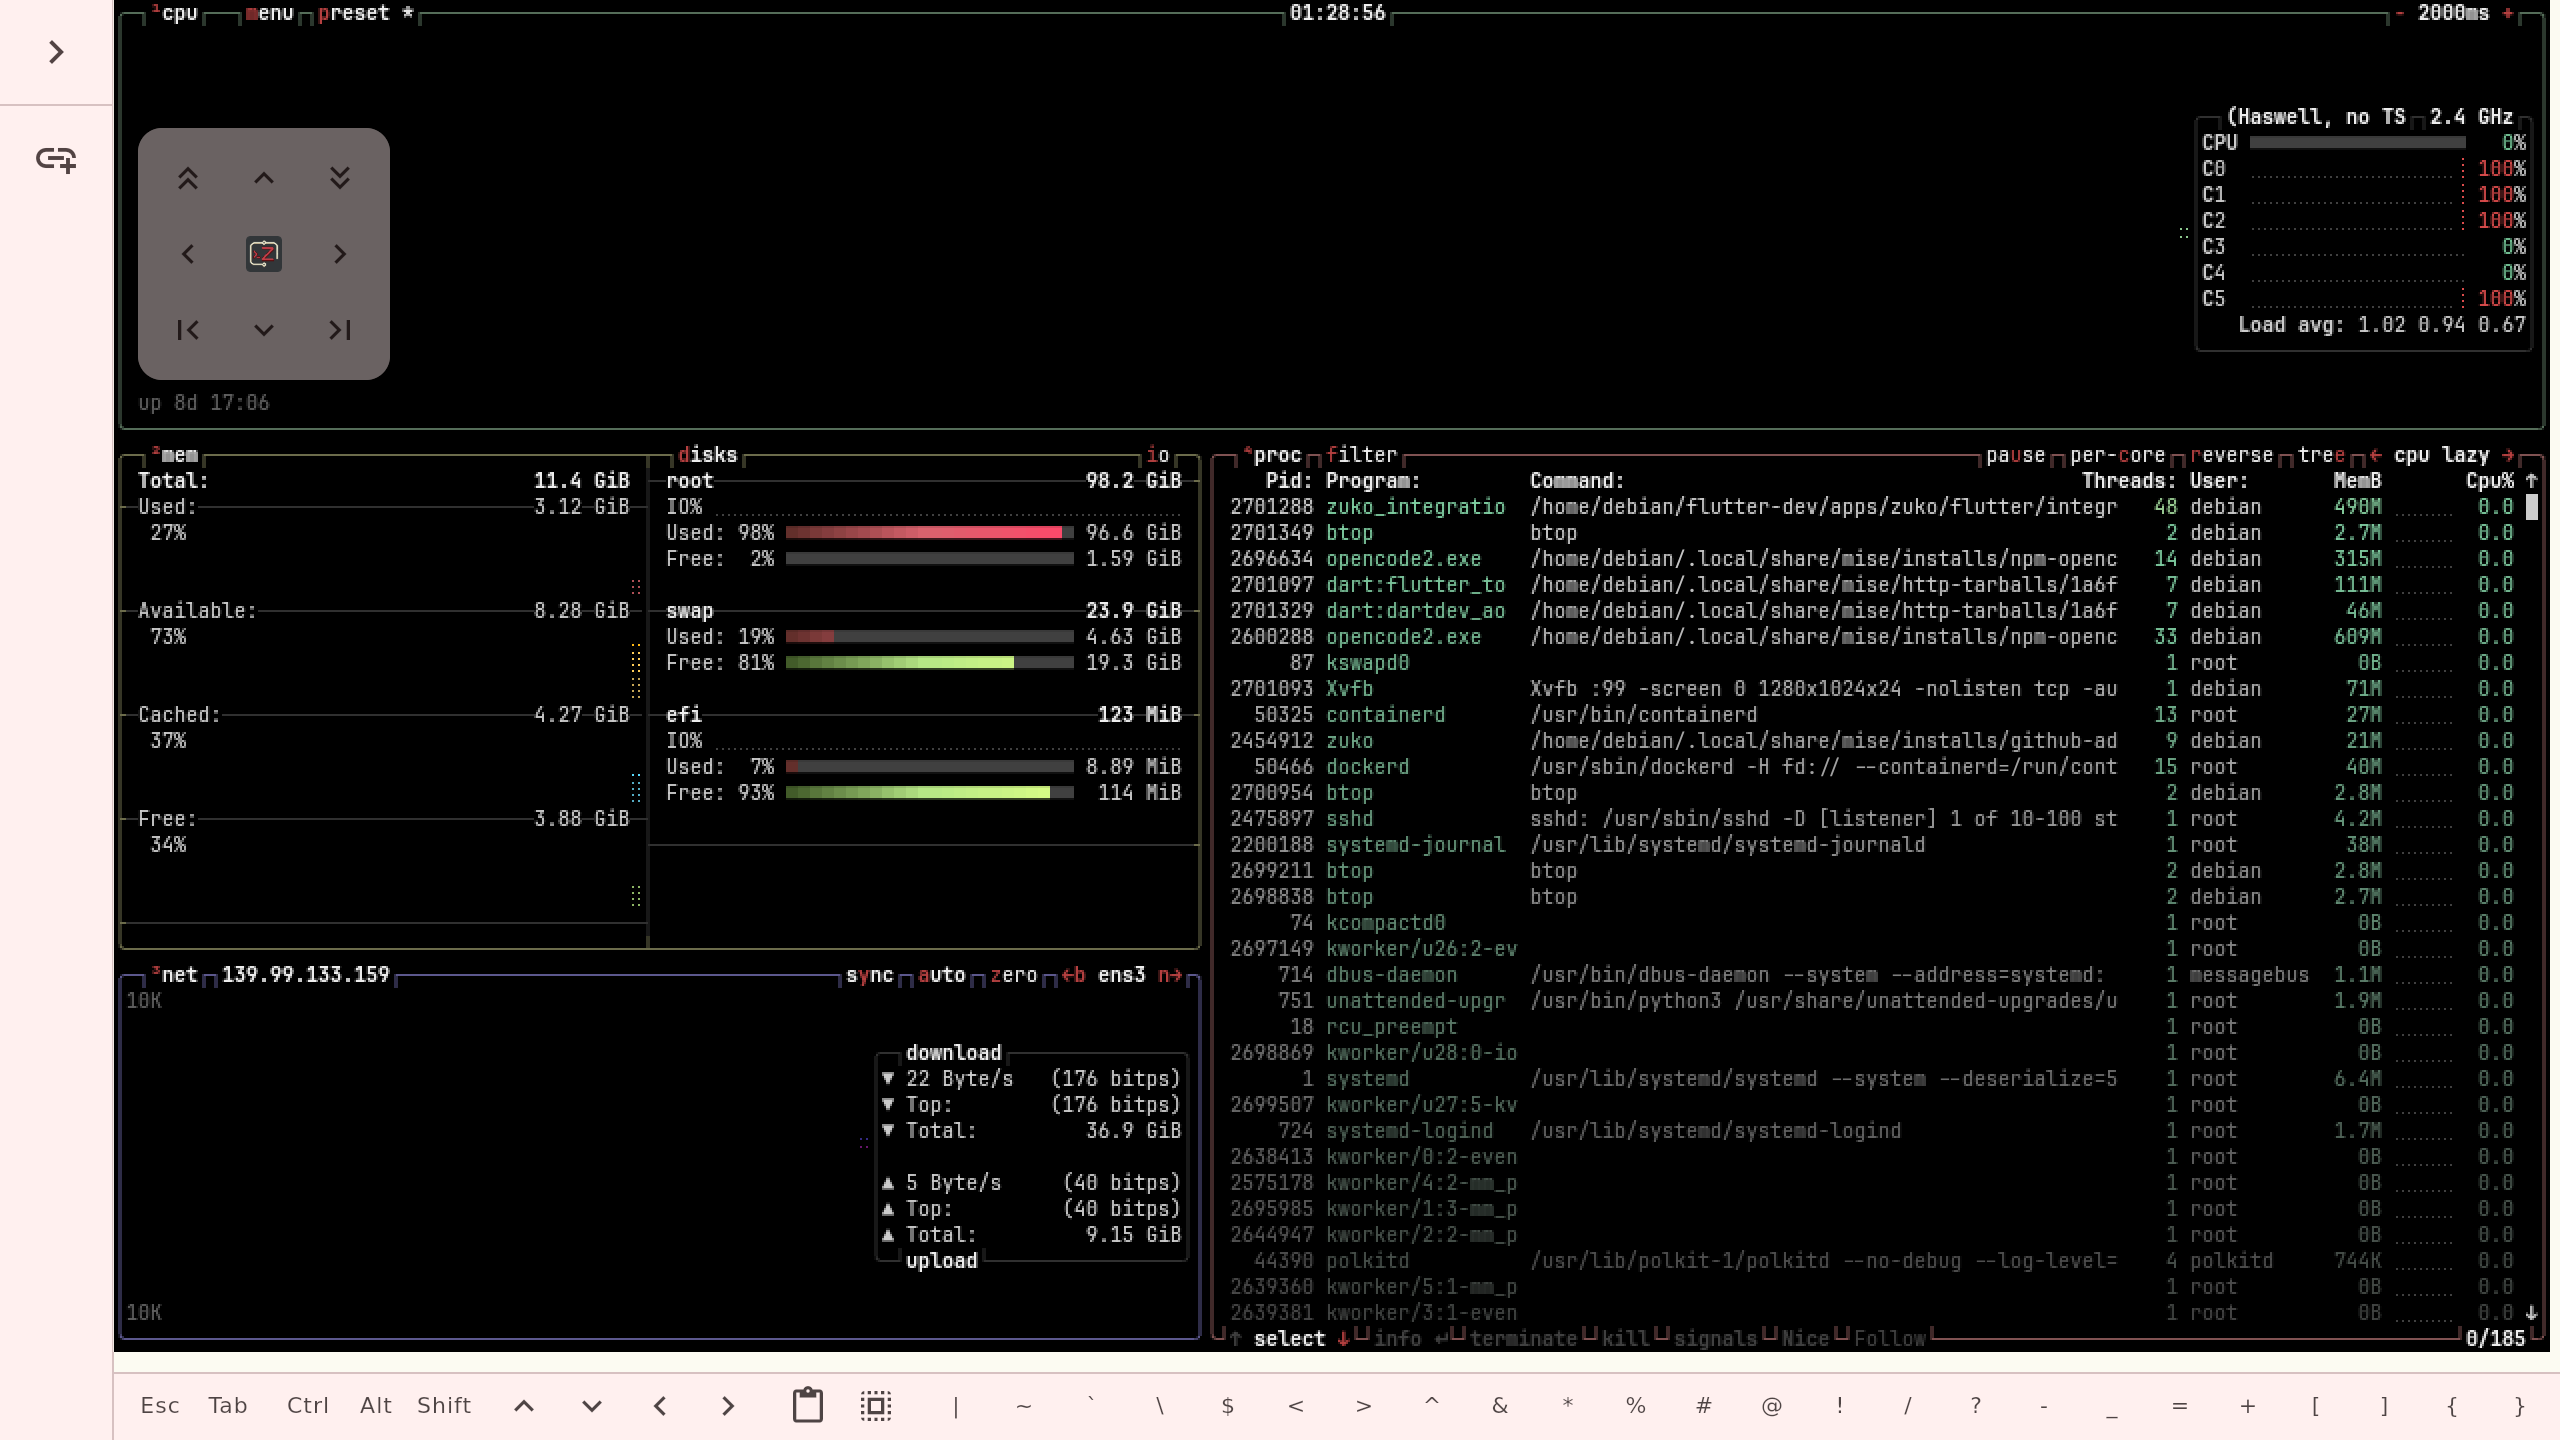
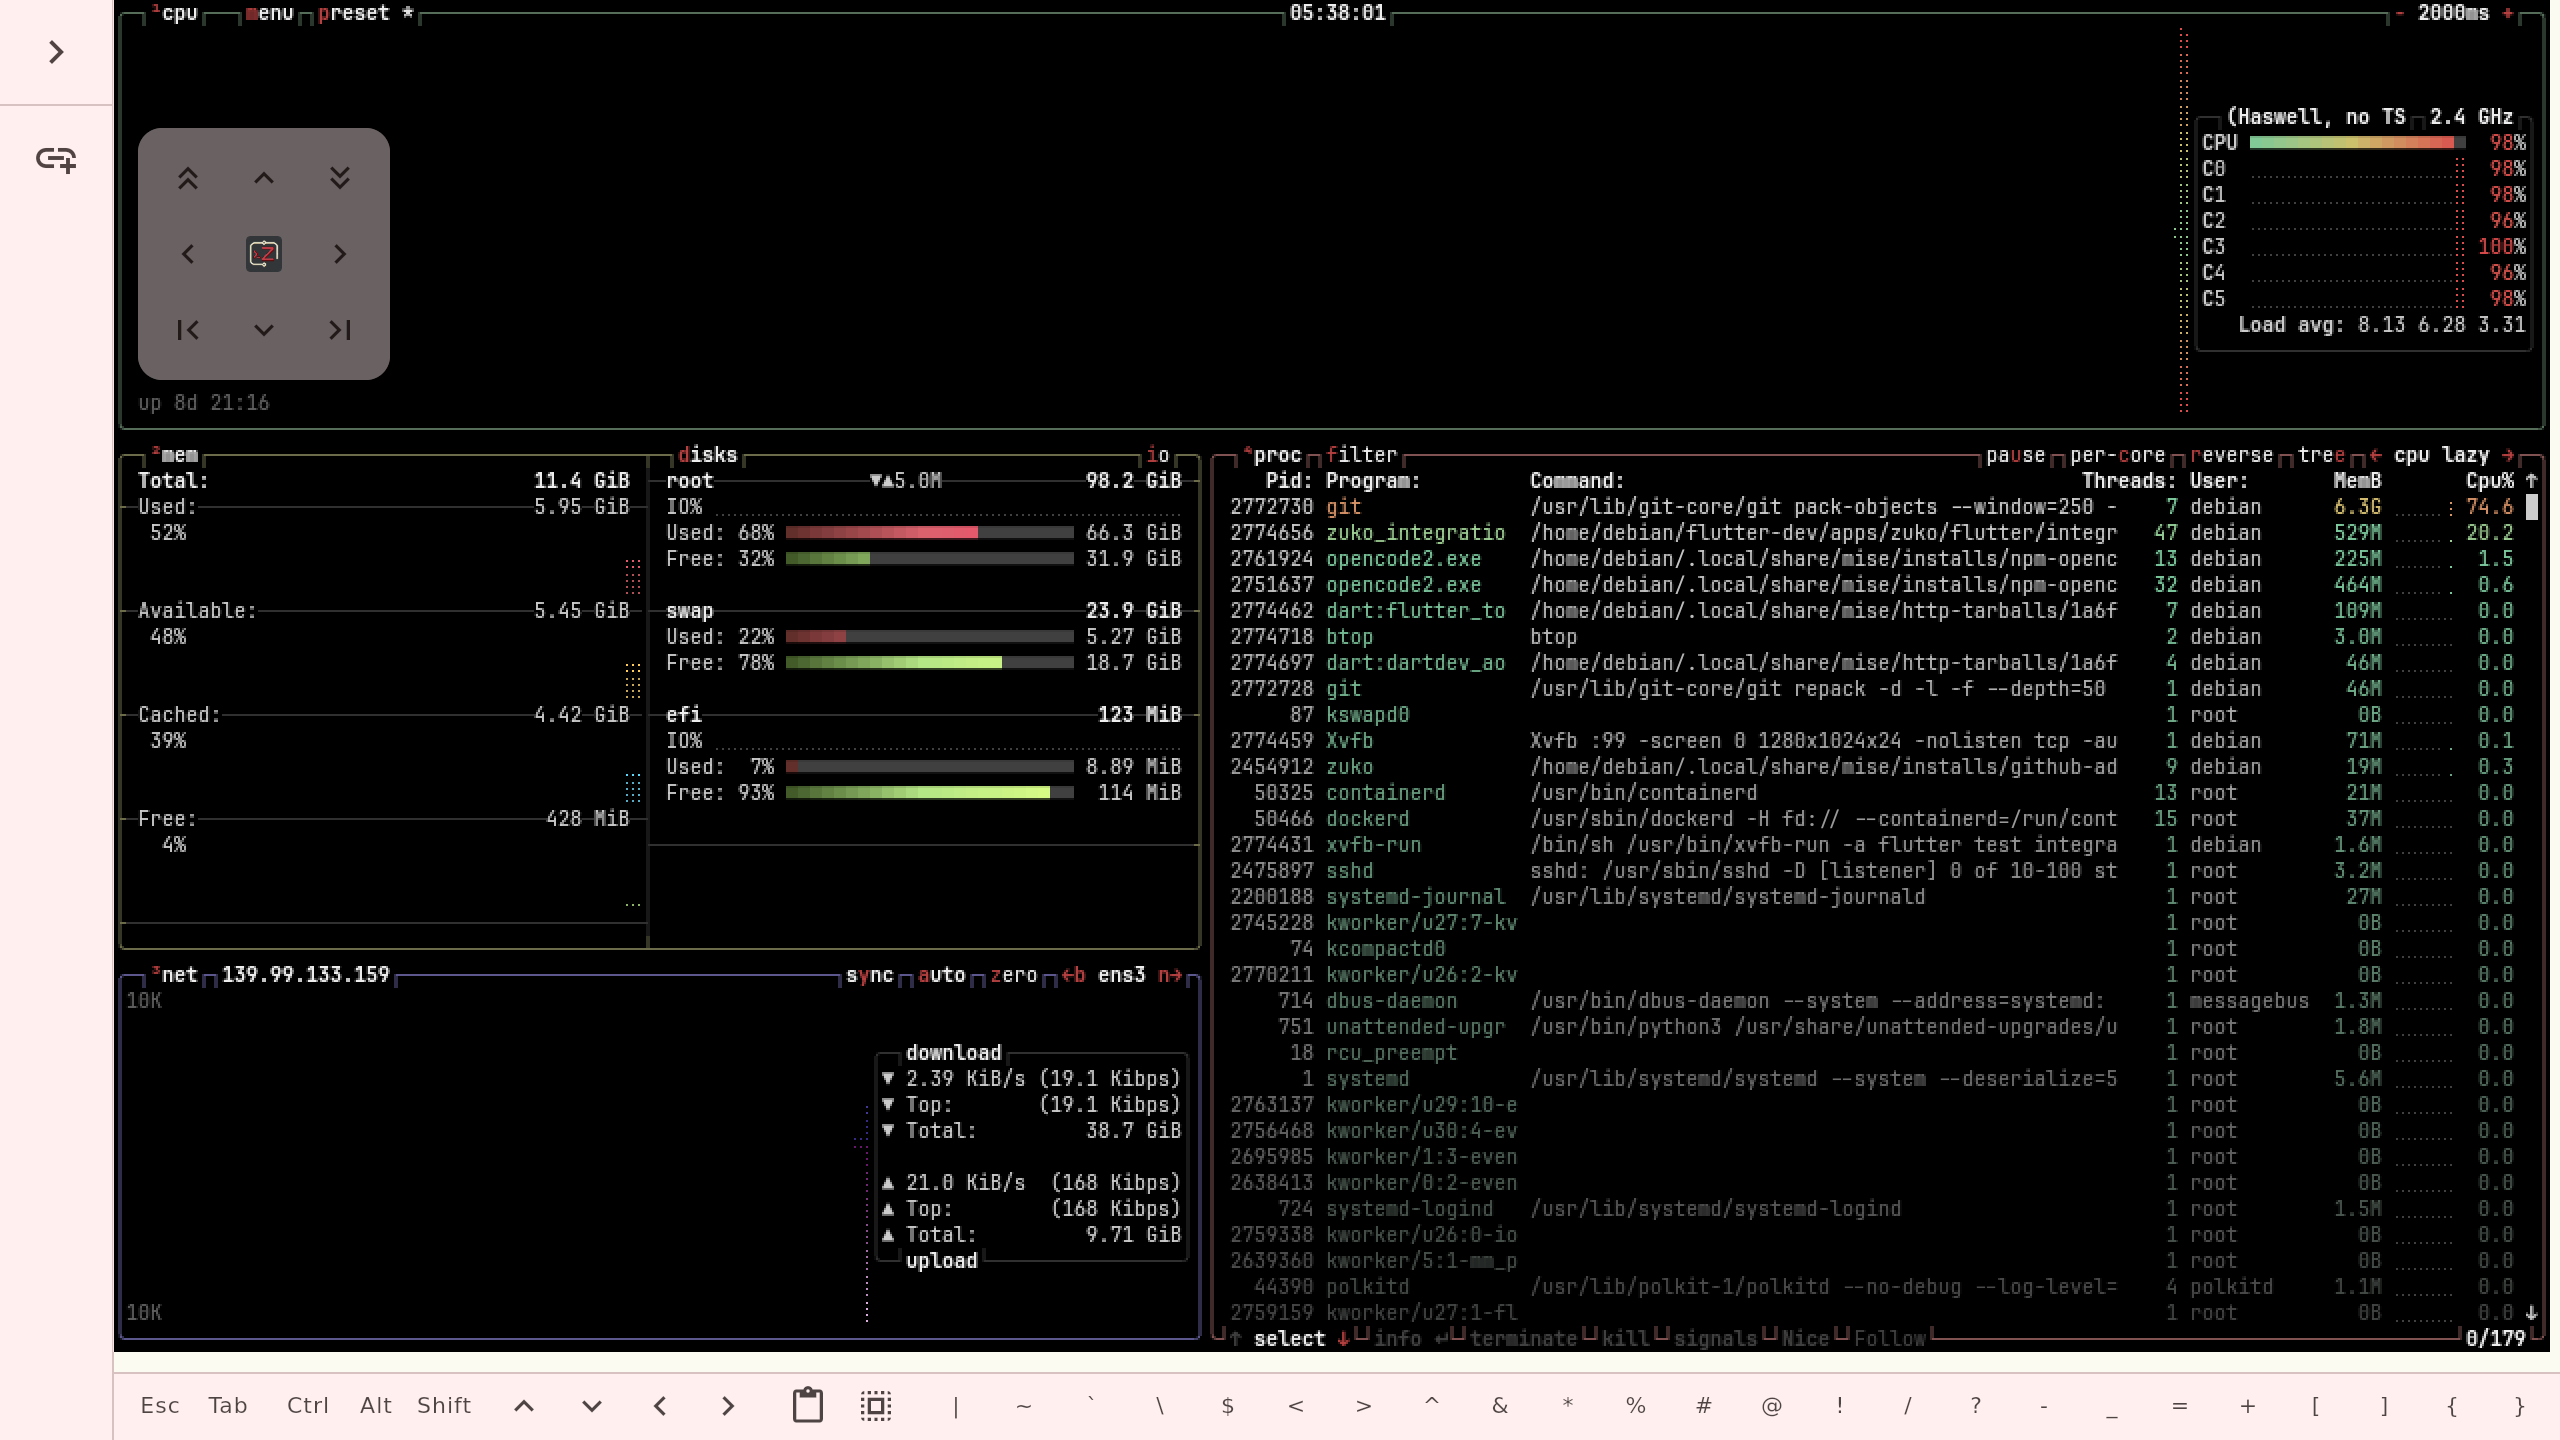
docs(flutter): render the narrow touch screenshot at 6pt so btop fits
The narrow 390x844 capture used the default 10pt terminal font, leaving
too few columns for btop's layout. The capture test now honors
ZUKO_FONT_SIZE and the narrow recipe run sets 6pt, matching a phone
setup; the regenerated image shows btop's full layout under the pad.

diff --git a/flutter/integration/integration_test/btop_pad_screenshot_test.dart b/flutter/integration/integration_test/btop_pad_screenshot_test.dart
@@ -16,15 +16,19 @@ import 'local_host_transport.dart';
 
 /// Real-app screenshots of the touch shell with live TUI content: runs with
 /// ZUKO_FORCE_TOUCH_PAD and a btop PTY so the pad floats over a real
-/// mouse-capable terminal program. ZUKO_SHOT_NAME renames the capture so
-/// the same test can record several window sizes (see the screenshots
-/// recipe).
+/// mouse-capable terminal program. ZUKO_SHOT_NAME renames the capture and
+/// ZUKO_FONT_SIZE sets the terminal font (both so the same test can record
+/// several window sizes — see the screenshots recipe).
 final _shotKey = GlobalKey();
 
 const _shotName = String.fromEnvironment(
   'ZUKO_SHOT_NAME',
   defaultValue: 'touch-btop',
 );
+
+/// Terminal font size in logical points; narrow windows need a small font
+/// for TUIs like btop to fit their full layout.
+const _fontSize = int.fromEnvironment('ZUKO_FONT_SIZE', defaultValue: 10);
 
 Future<void> _capture(WidgetTester tester, String name) async {
   await tester.pump();
@@ -102,6 +106,8 @@ Future<AppController> _controller(LocalHostTransport transport) async {
     clientKey: Uint8List.fromList(List<int>.generate(32, (index) => index)),
     clientName: 'zuko-test-client',
     hosts: const [],
+    terminalFontSize: _fontSize.toDouble(),
+    terminalFontSizeCustomized: true,
   );
   final store = ClientStateStore.withStorage(_MemoryStorage());
   await store.save(state);
